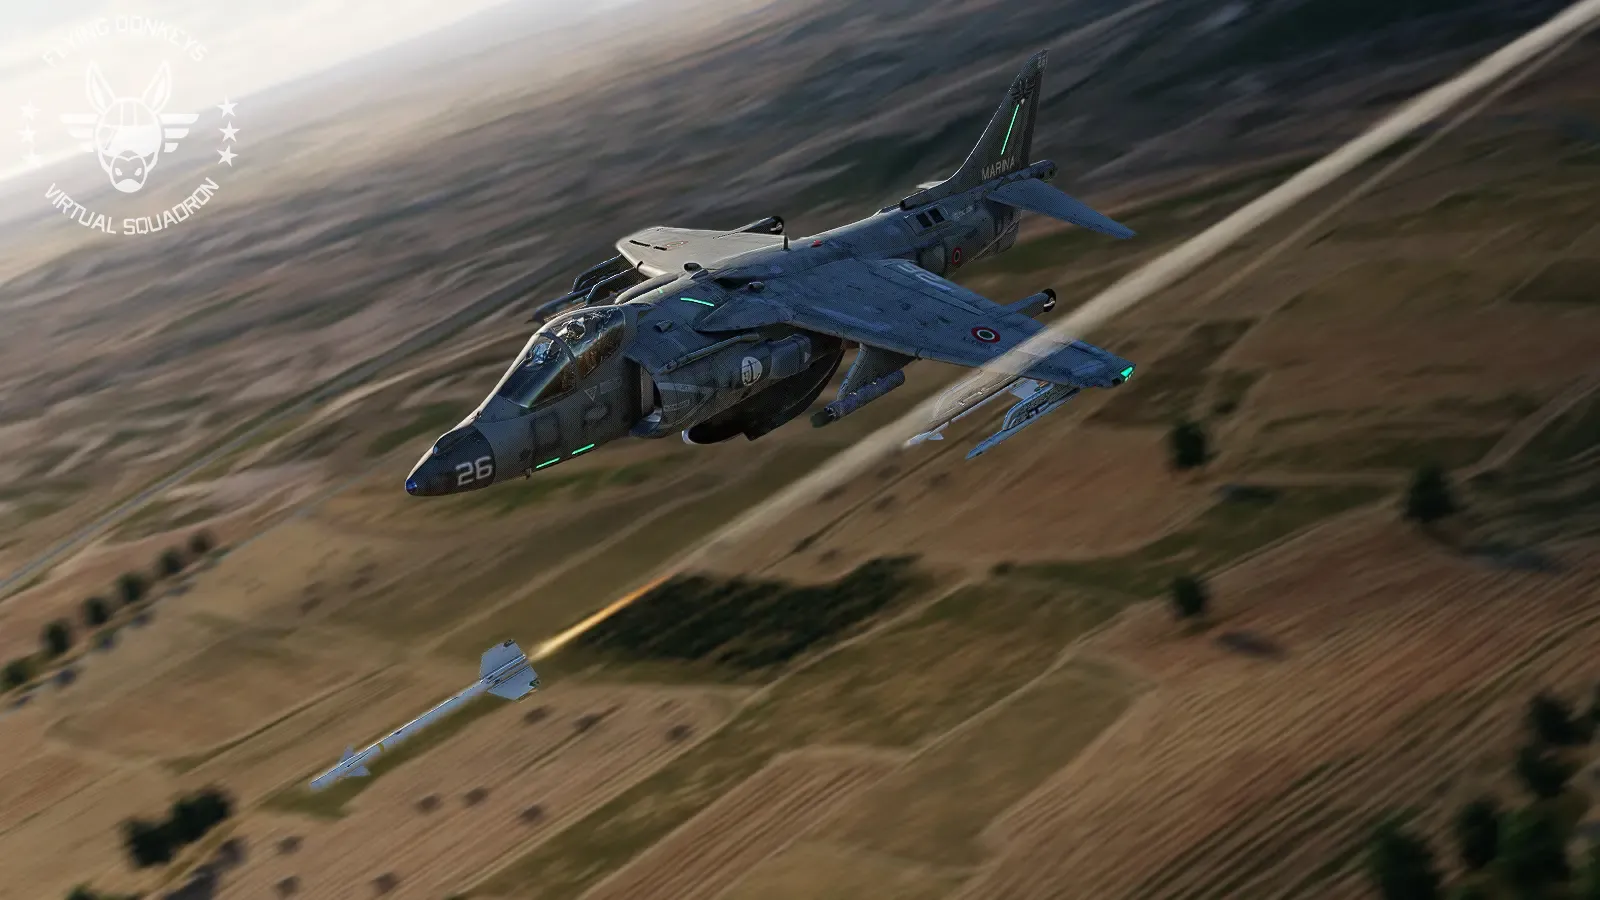
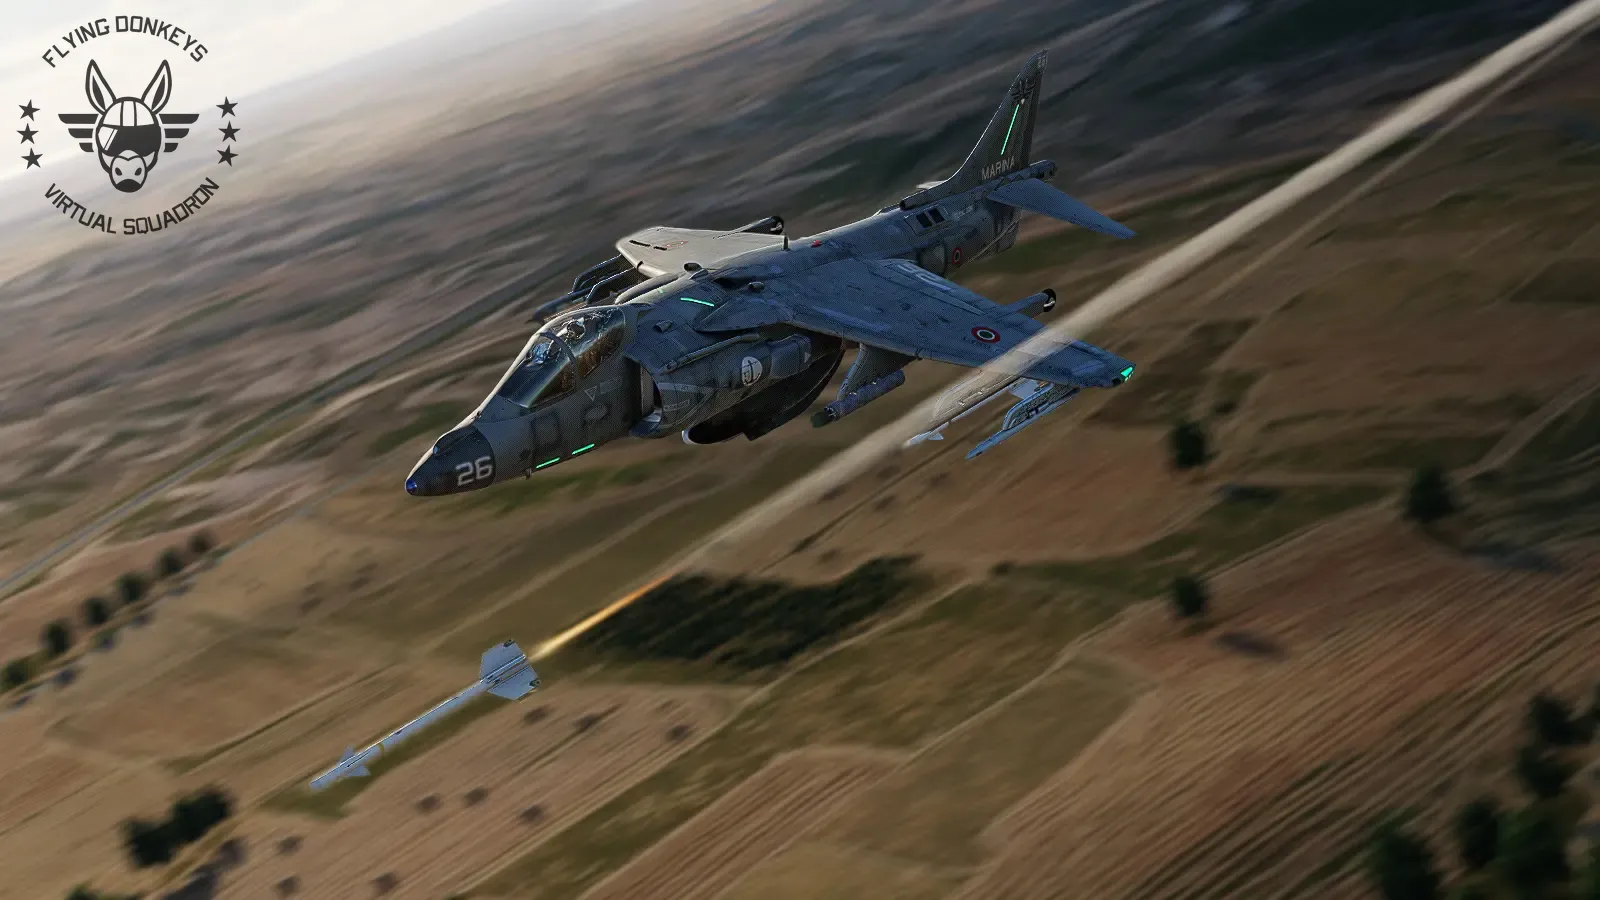
Portale admin: filigrana nera automatica su sfondi chiari
Prima di disegnare la filigrana, viene campionata la luminosita media dello sfondo nell'area dove verra' posizionato il logo. Se lo sfondo e' chiaro (luminosita > 195/255) si usa la variante nera (watermark-dark.png) invece di quella bianca, per restare leggibile. Applicato sia alla logica live del portale (Galleria) sia riapplicato alle 48 foto gia presenti.

Changed region(s): [[0.0, 0.0, 0.1562, 0.28]]

diff --git a/admin/index.html b/admin/index.html
@@ -451,18 +451,21 @@
 
   /* Filigrana (logo bianco, solo per la Galleria): caricata una
      sola volta e riusata per tutti gli upload della sessione. */
-  let watermarkImagePromise = null;
+  const watermarkImagePromises = {};
 
-  function loadWatermarkImage() {
-    if (!watermarkImagePromise) {
-      watermarkImagePromise = new Promise((resolve, reject) => {
+  function loadWatermarkImage(variant) {
+    if (!watermarkImagePromises[variant]) {
+      const src = variant === 'dark'
+        ? '/images/logos/watermark-dark.png'
+        : '/images/logos/watermark.png';
+      watermarkImagePromises[variant] = new Promise((resolve, reject) => {
         const img = new Image();
         img.onload = () => resolve(img);
         img.onerror = () => reject(new Error('Filigrana non disponibile.'));
-        img.src = '/images/logos/watermark.png';
+        img.src = src;
       });
     }
-    return watermarkImagePromise;
+    return watermarkImagePromises[variant];
   }
 
   /* Il file watermark.png ha un bordo trasparente interno attorno allo
@@ -472,12 +475,35 @@
   const WM_CONTENT_TOP_RATIO = 371 / 2000;
   const WM_CONTENT_LEFT_RATIO = 167 / 1649;
 
-  function drawWatermark(ctx, canvasWidth, canvasHeight, watermarkImg) {
+  /* Sopra 195 (su 255) lo sfondo e' abbastanza chiaro da rendere il logo
+     bianco poco leggibile: in quel caso si usa la variante nera. */
+  const WM_LUMINANCE_THRESHOLD = 195;
+
+  function getAverageLuminance(ctx, x, y, w, h, canvasWidth, canvasHeight) {
+    const sx = Math.max(0, Math.round(x));
+    const sy = Math.max(0, Math.round(y));
+    const sw = Math.min(canvasWidth, Math.round(x + w)) - sx;
+    const sh = Math.min(canvasHeight, Math.round(y + h)) - sy;
+    if (sw <= 0 || sh <= 0) return 0;
+
+    const { data } = ctx.getImageData(sx, sy, sw, sh);
+    let total = 0;
+    const count = data.length / 4;
+    for (let i = 0; i < data.length; i += 4) {
+      total += 0.299 * data[i] + 0.587 * data[i + 1] + 0.114 * data[i + 2];
+    }
+    return total / count;
+  }
+
+  function drawWatermark(ctx, canvasWidth, canvasHeight, watermarkImgLight, watermarkImgDark) {
     const margin = 16;
     const wmWidth = Math.round(canvasWidth * 0.18);
-    const wmHeight = Math.round(wmWidth * (watermarkImg.height / watermarkImg.width));
+    const wmHeight = Math.round(wmWidth * (watermarkImgLight.height / watermarkImgLight.width));
     const x = margin - Math.round(wmWidth * WM_CONTENT_LEFT_RATIO);
     const y = margin - Math.round(wmHeight * WM_CONTENT_TOP_RATIO);
+
+    const luminance = getAverageLuminance(ctx, x, y, wmWidth, wmHeight, canvasWidth, canvasHeight);
+    const watermarkImg = luminance > WM_LUMINANCE_THRESHOLD ? watermarkImgDark : watermarkImgLight;
 
     ctx.save();
     ctx.globalAlpha = 0.75;
@@ -511,8 +537,11 @@
 
           if (watermark) {
             try {
-              const watermarkImg = await loadWatermarkImage();
-              drawWatermark(ctx, width, height, watermarkImg);
+              const [watermarkImgLight, watermarkImgDark] = await Promise.all([
+                loadWatermarkImage('light'),
+                loadWatermarkImage('dark')
+              ]);
+              drawWatermark(ctx, width, height, watermarkImgLight, watermarkImgDark);
             } catch (error) {
               // Senza filigrana disponibile, l'immagine si carica comunque.
               console.error(error);
